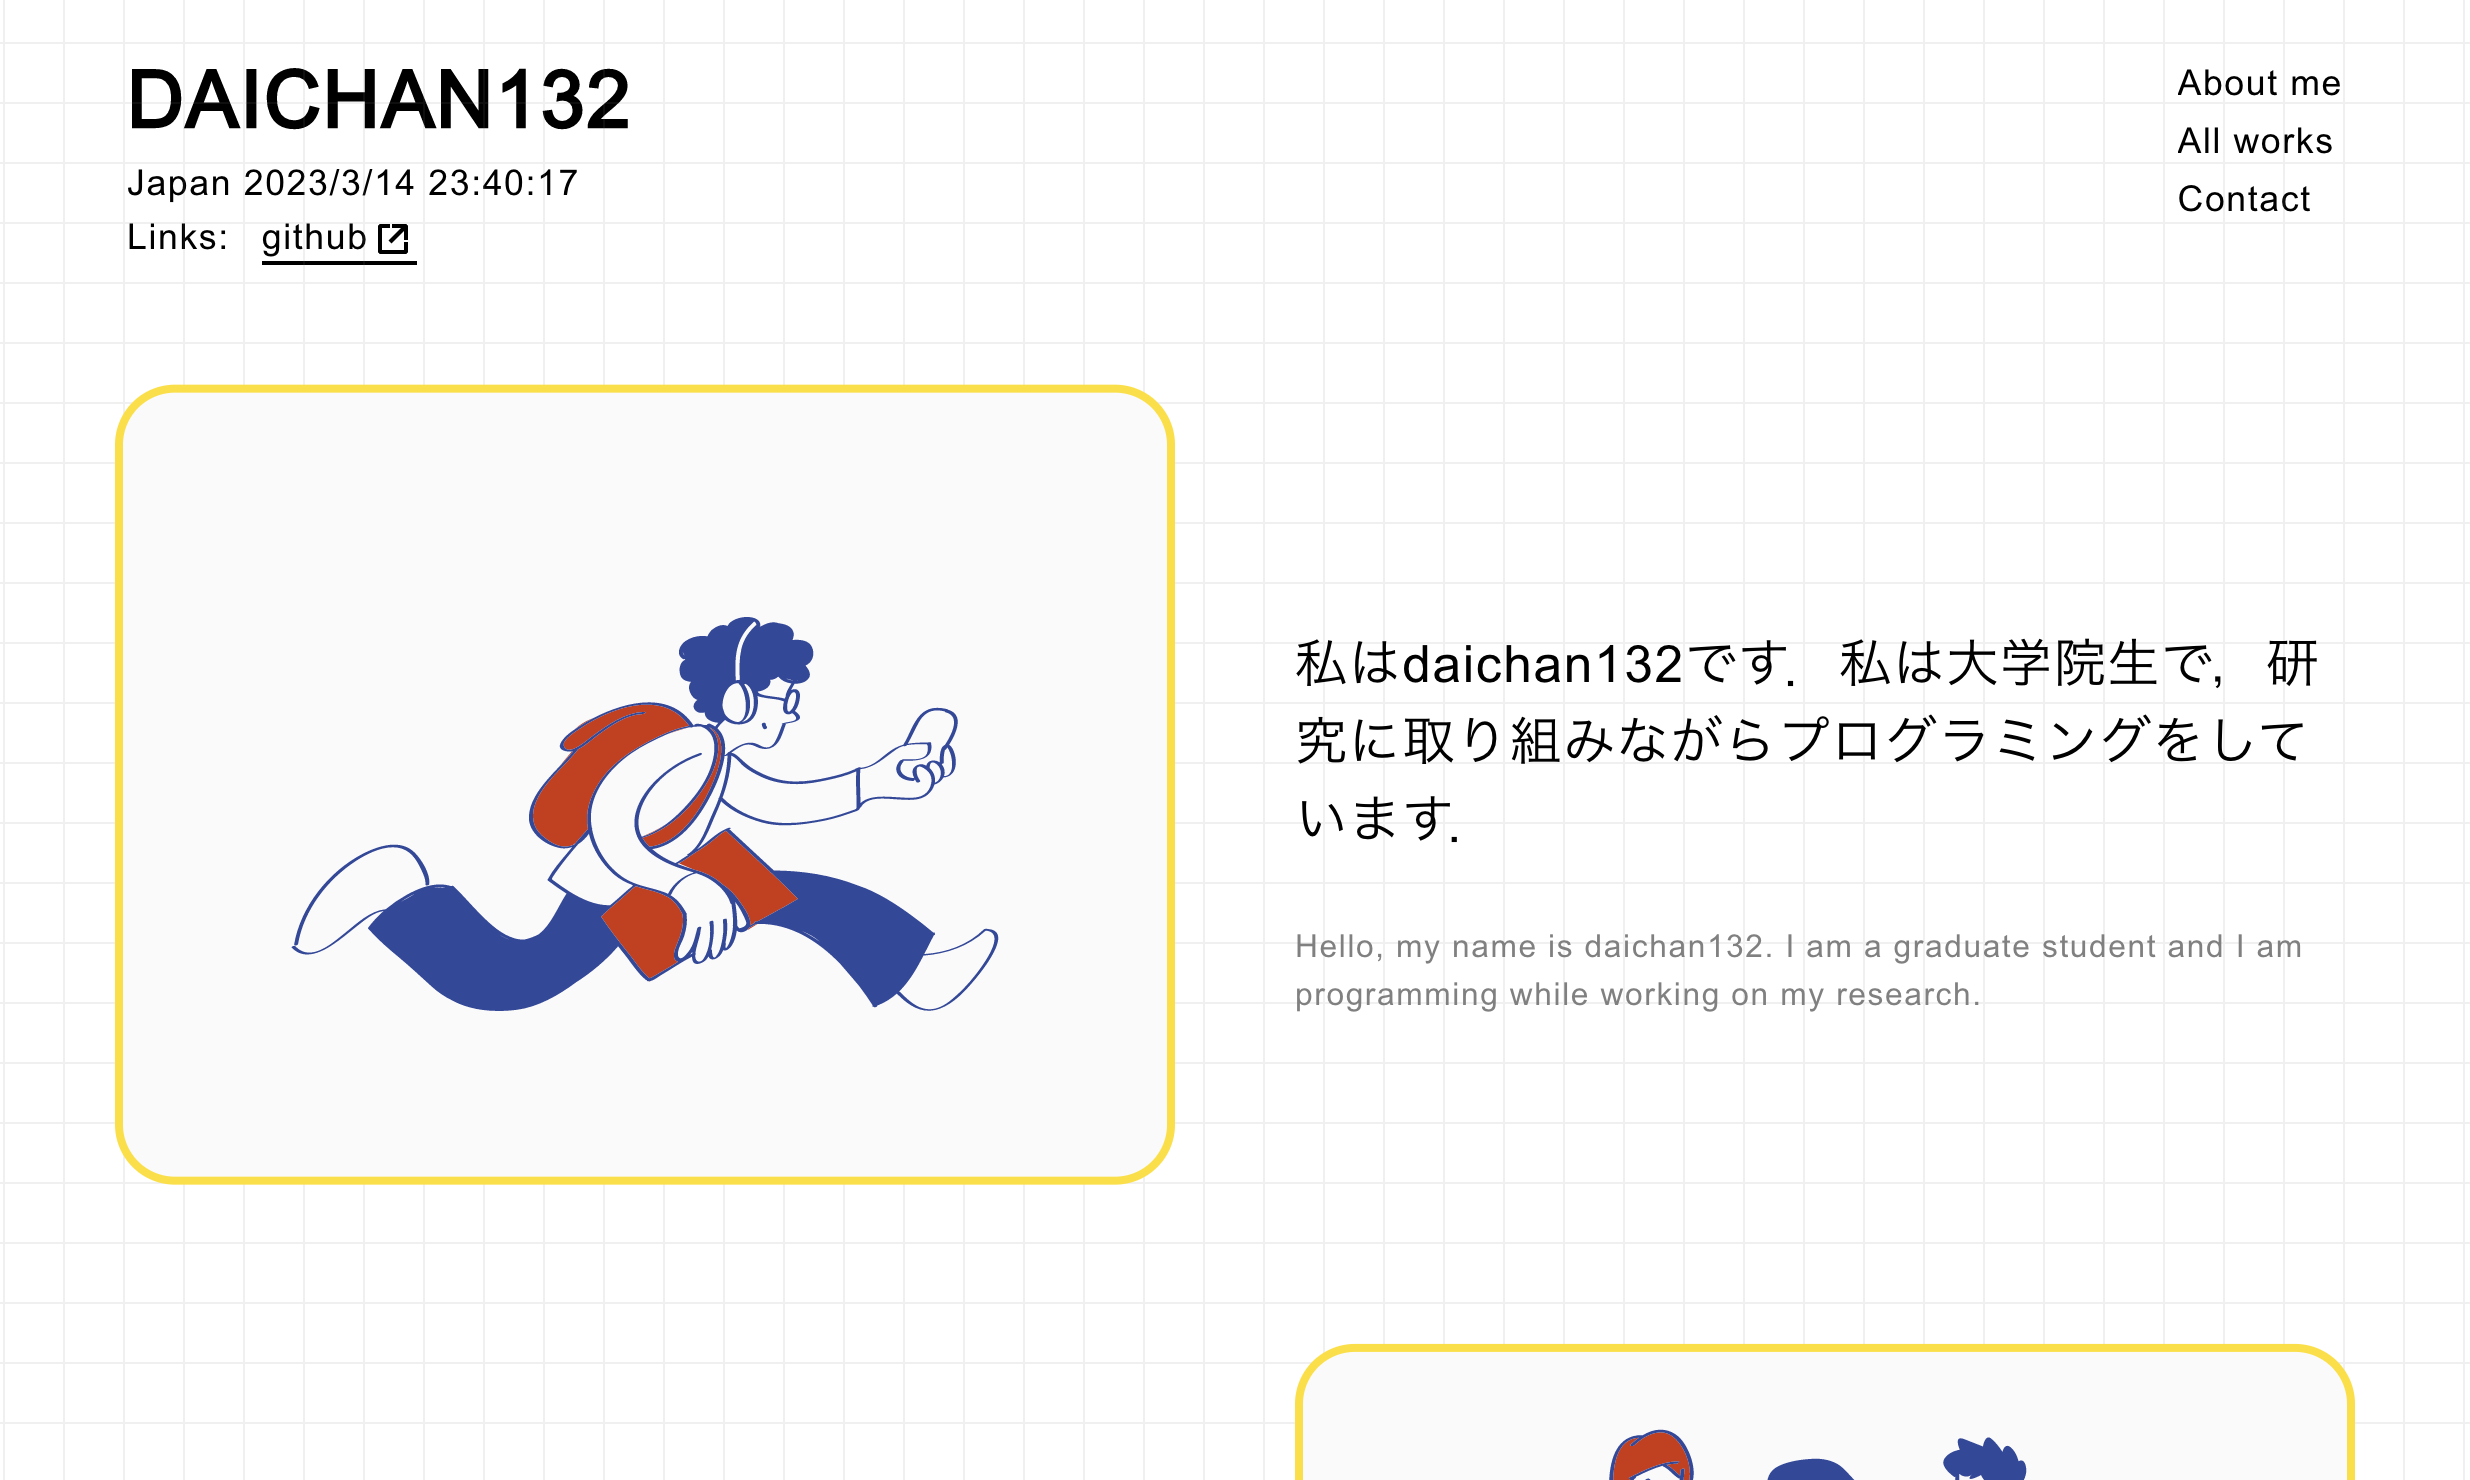
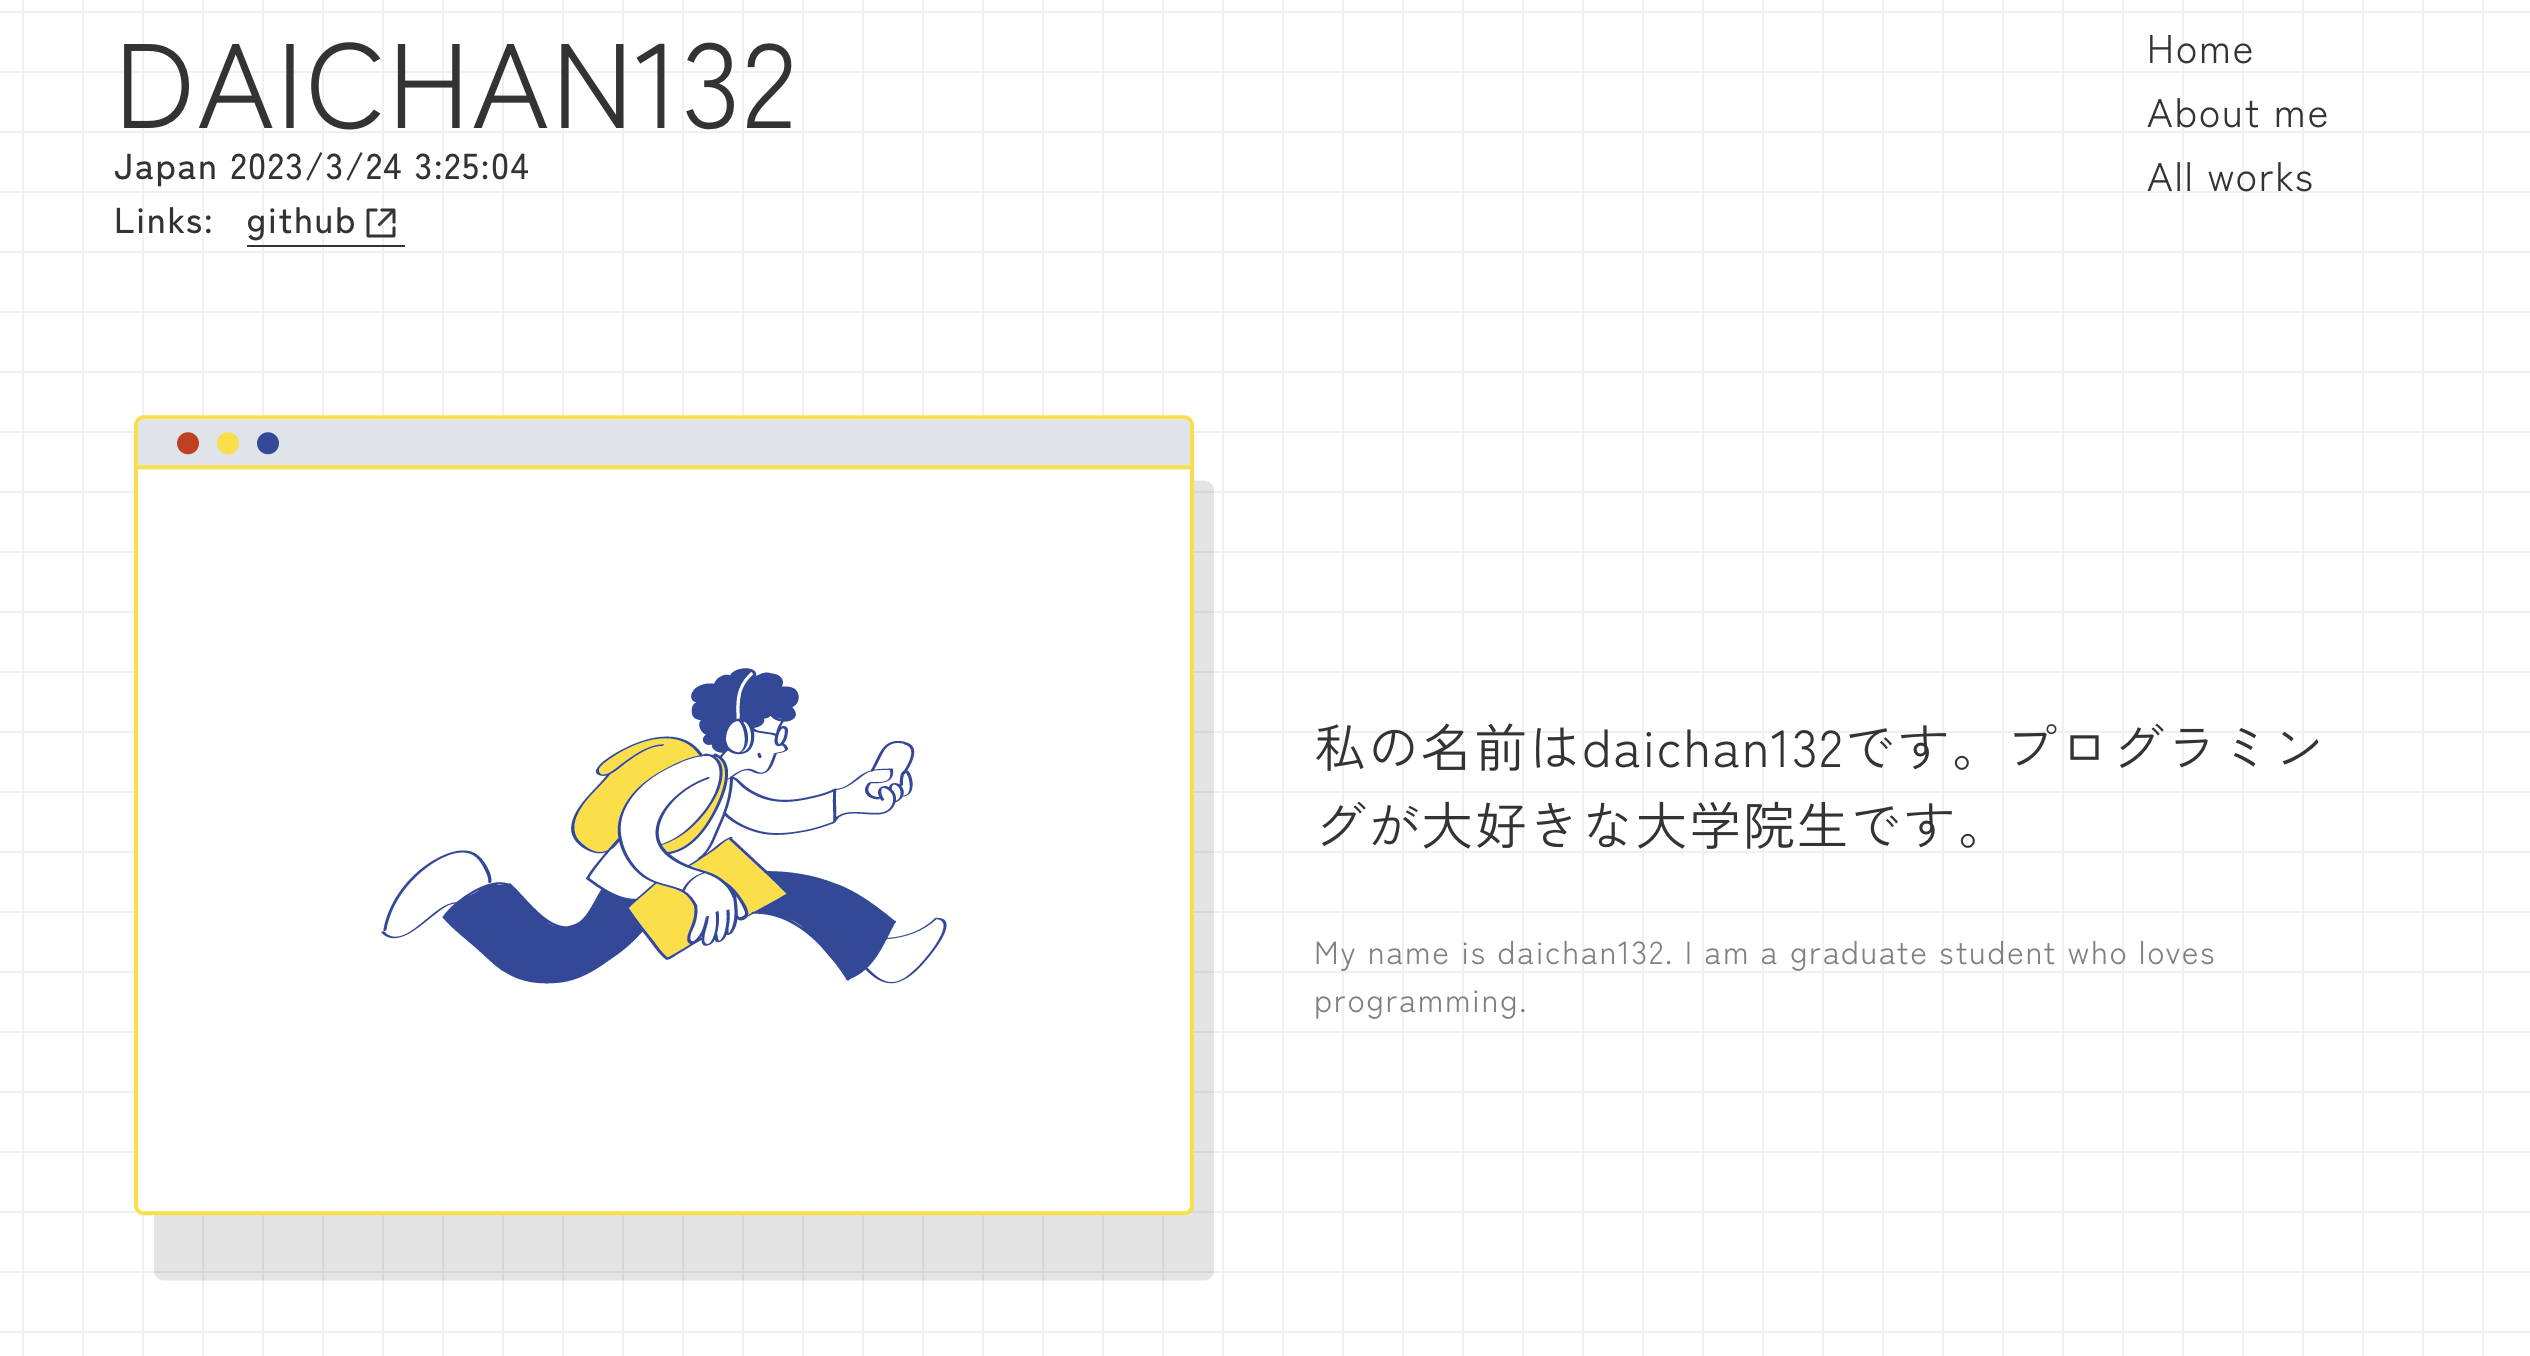
containerのsizeをxlに変更

diff --git a/src/components/layout/Header/Header.tsx b/src/components/layout/Header/Header.tsx
@@ -144,7 +144,7 @@ export const Header = () => {
     <>
       {opened && <FullscreenMenu />}
       <header className={classes.header}>
-        <Container size="lg" className={classes.container}>
+        <Container size="xl" className={classes.container}>
           <div>
             {!opened && (
               <Link

diff --git a/src/components/pages/works/Work.tsx b/src/components/pages/works/Work.tsx
@@ -32,6 +32,9 @@ const useStyles = createStyles((theme, { color }: { color: string }) => ({
     width: '100%',
     height: '100%',
     transform: 'translate(10px,20px)',
+    [theme.fn.smallerThan('sm')]: {
+      display: 'none',
+    },
   },
   content: {
     position: 'relative',

diff --git a/src/pages/about/index.tsx b/src/pages/about/index.tsx
@@ -17,7 +17,7 @@ const Home = () => {
 
   return (
     <Container
-      size="lg"
+      size="xl"
       px="xs"
       pt={sm ? rem(52) : rem(240)}
       pb={sm ? rem(52) : rem(100)}

diff --git a/src/pages/works/index.tsx b/src/pages/works/index.tsx
@@ -74,7 +74,7 @@ const Home = () => {
   ];
   return (
     <Container
-      size="lg"
+      size="xl"
       css={css`
         overflow: hidden;
       `}
